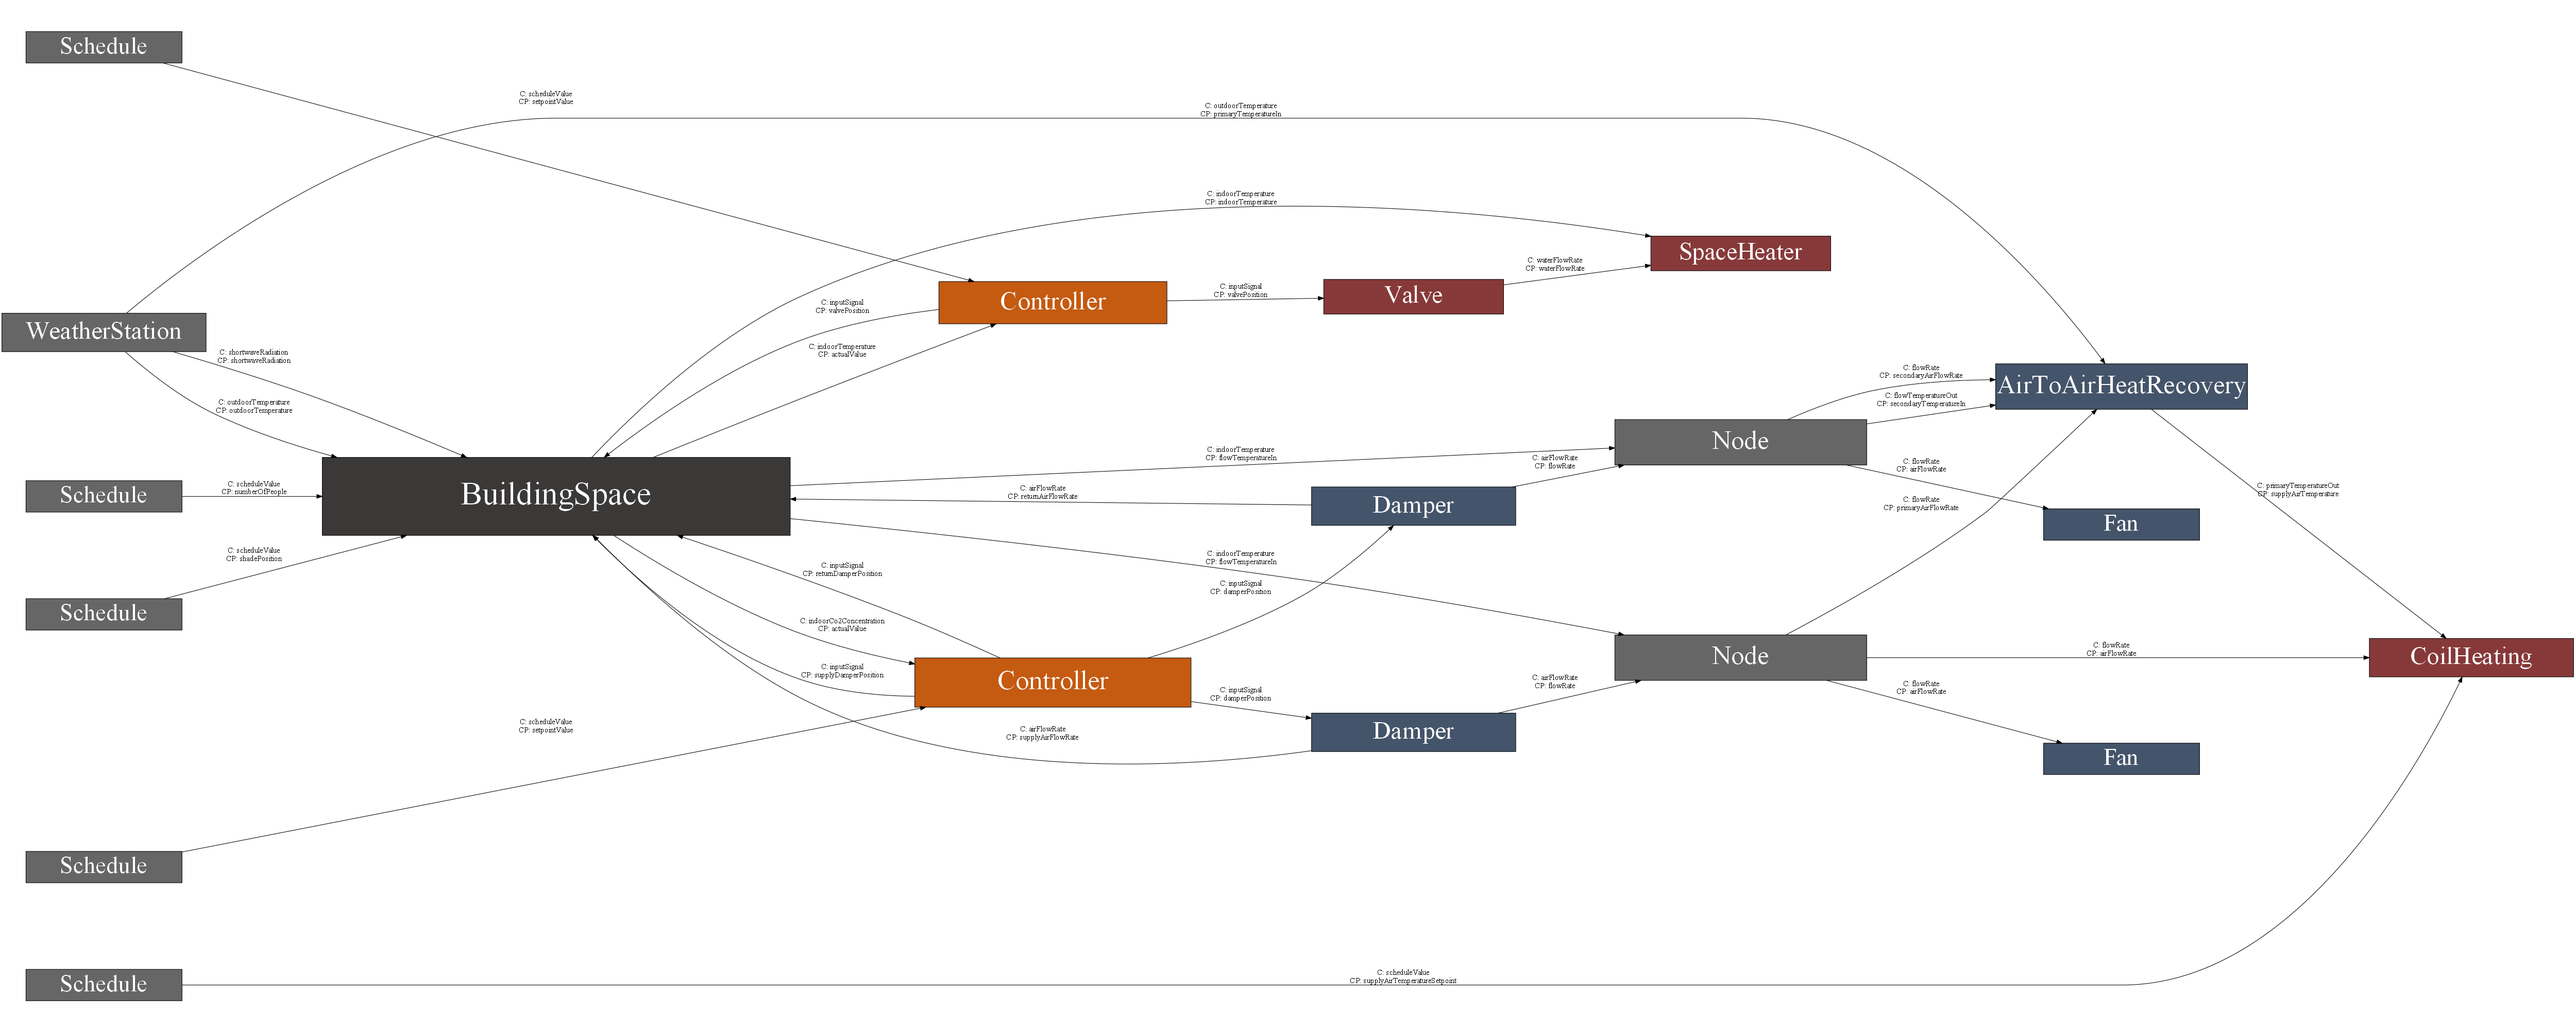
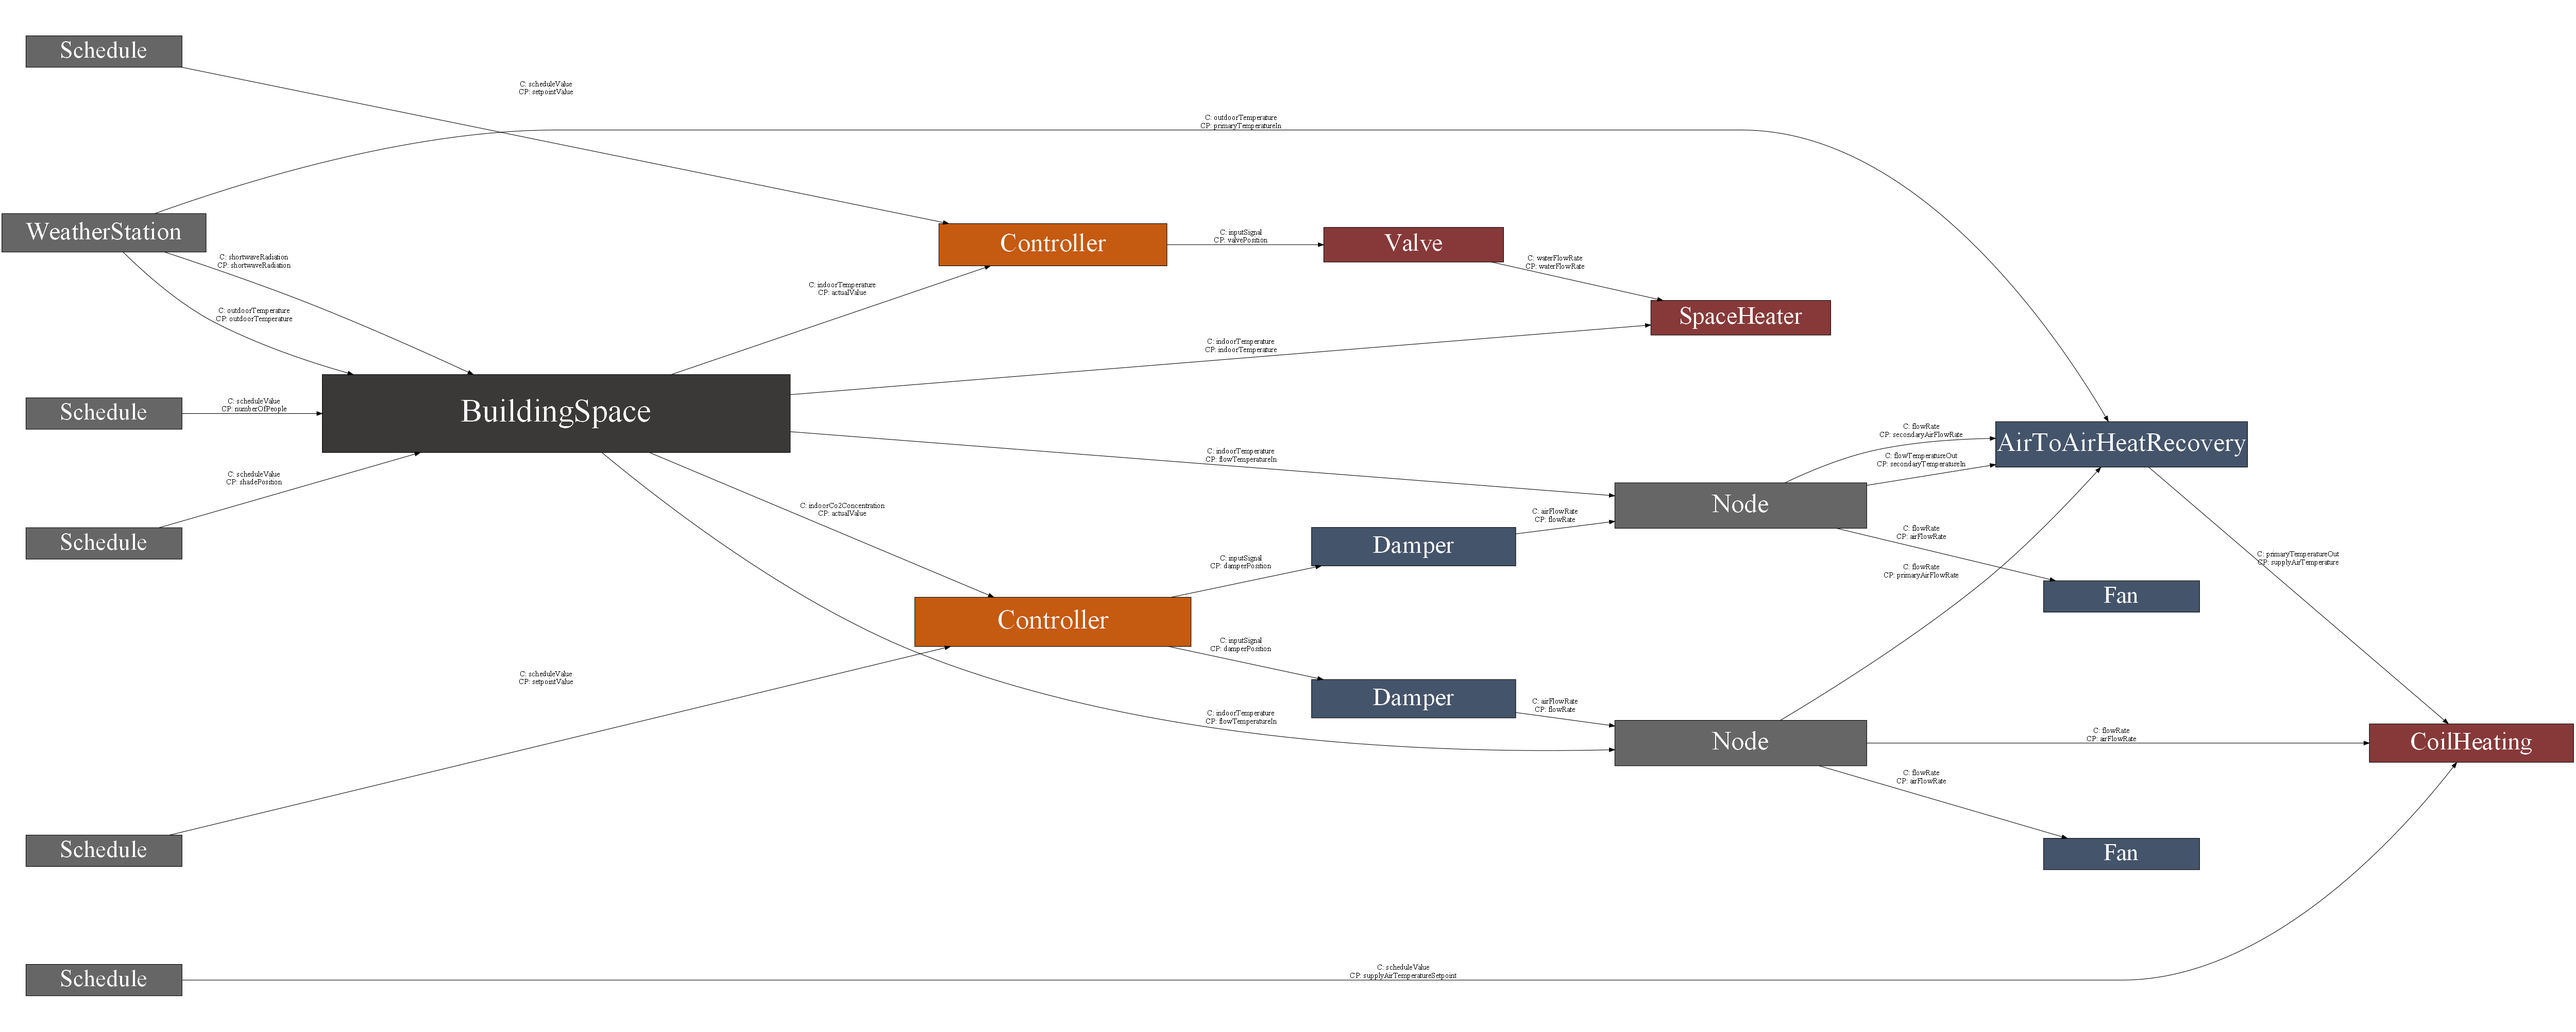
Fix draw_system_graph_no_cycles()

diff --git a/twin4build/energy_model/energy_model.py b/twin4build/energy_model/energy_model.py
@@ -77,7 +77,9 @@ class EnergyModel:
             ValveModel.__name__: pydot.Subgraph(rank='same'),
             FanModel.__name__: pydot.Subgraph(rank='same'),
             SpaceHeaterModel.__name__: pydot.Subgraph(rank='same'),
-            Node.__name__: pydot.Subgraph(rank='same')}
+            Node.__name__: pydot.Subgraph(rank='same')
+            }
+
 
         # for subgraph in self.subgraph_dict.values():
         #     dummy_node = pydot.Node("dummy")
@@ -117,6 +119,13 @@ class EnergyModel:
 
 
         graph.add_edge(pydot.Edge(a,b, label=label))
+
+    def del_edge_(self, graph, a, b):
+        if "Ø" in a:
+            a = f'"{a}"'
+        if "Ø" in b:
+            b = f'"{b}"'
+        graph.del_edge(a,b)
 
 
     def add_connection(self, sender_obj, reciever_obj, senderPropertyName, recieverPropertyName):
@@ -1242,19 +1251,21 @@ class EnergyModel:
 
 
     def draw_system_graph_no_cycles(self):
-        nx_graph = nx.drawing.nx_pydot.from_pydot(self.system_graph_no_cycles)
-        for node in nx_graph.nodes():
-            subgraph = self.subgraph_dict[type(self.component_dict_no_cycles[node]).__name__]
-            if 'Ø' in node:
-                name = '"' + node + '"'
-            else:
-                name = node
+        # Must be fixed. 
+        # self.subgraph_dict still references to self.system_graph subgraphs after deepcopy in get_component_dict_no_cycles()
+        # nx_graph = nx.drawing.nx_pydot.from_pydot(self.system_graph_no_cycles)
+        # for node in nx_graph.nodes():
+        #     subgraph = self.subgraph_dict_no_cycles[type(self.component_dict_no_cycles[node]).__name__]
+        #     if 'Ø' in node:
+        #         name = '"' + node + '"'
+        #     else:
+        #         name = node
 
-            if len(subgraph.get_node(name))==1:
-                subgraph.get_node(name)[0].obj_dict["attributes"].update(self.system_graph_node_attribute_dict[node])
+        #     if len(subgraph.get_node(name))==1:
+        #         subgraph.get_node(name)[0].obj_dict["attributes"].update(self.system_graph_node_attribute_dict[node])
 
         file_name = "system_graph_no_cycles"
-        self.system_graph_no_cycles.write(f"{file_name}.dot")
+        self.system_graph_no_cycles.write(f"{file_name}.dot", prog="dot")
 
         # If Python can't find the dot executeable, change "app_path" variable to the full path
         app_path = shutil.which("dot")
@@ -1488,16 +1499,21 @@ class EnergyModel:
         self.visited = set()
         self.depth_first_search_recursive(component)
 
+    def get_subgraph_dict_no_cycles(self):
+        self.subgraph_dict_no_cycles = copy.deepcopy(self.subgraph_dict)
+        subgraphs = self.system_graph_no_cycles.get_subgraphs()
+        for subgraph in subgraphs:
+            if len(subgraph.get_nodes())>0:
+                node = subgraph.get_nodes()[0].obj_dict["name"].replace('"',"")
+                self.subgraph_dict_no_cycles[type(self.component_dict_no_cycles[node]).__name__] = subgraph
 
 
     def get_component_dict_no_cycles(self):
         self.component_dict_no_cycles = copy.deepcopy(self.component_dict)
         self.system_graph_no_cycles = copy.deepcopy(self.system_graph)
-        self.system_graph_node_attribute_dict_no_cycles = copy.deepcopy(self.system_graph_node_attribute_dict)
-        self.system_graph_edge_label_dict_no_cycles = copy.deepcopy(self.system_graph_edge_label_dict)
+        self.get_subgraph_dict_no_cycles()
 
         controller_instances = [v for v in self.component_dict_no_cycles.values() if isinstance(v, Controller)]
-
         for controller in controller_instances:
             controlled_component = [connection_point.connectsSystemThrough.connectsSystem for connection_point in controller.connectsAt if connection_point.recieverPropertyName=="actualValue"][0]
             self.depth_first_search(controller)
@@ -1509,7 +1525,7 @@ class EnergyModel:
                     if controlled_component == connected_component:
                         controlled_component.connectsAt.remove(connection_point)
                         reachable_component.connectedThrough.remove(connection)
-                        self.system_graph_no_cycles.del_edge(reachable_component.id, controlled_component.id)
+                        self.del_edge_(self.system_graph_no_cycles, reachable_component.id, controlled_component.id)
 
     def map_execution_order(self):
         self.execution_order = [[self.component_dict[component.id] for component in component_group] for component_group in self.execution_order]
